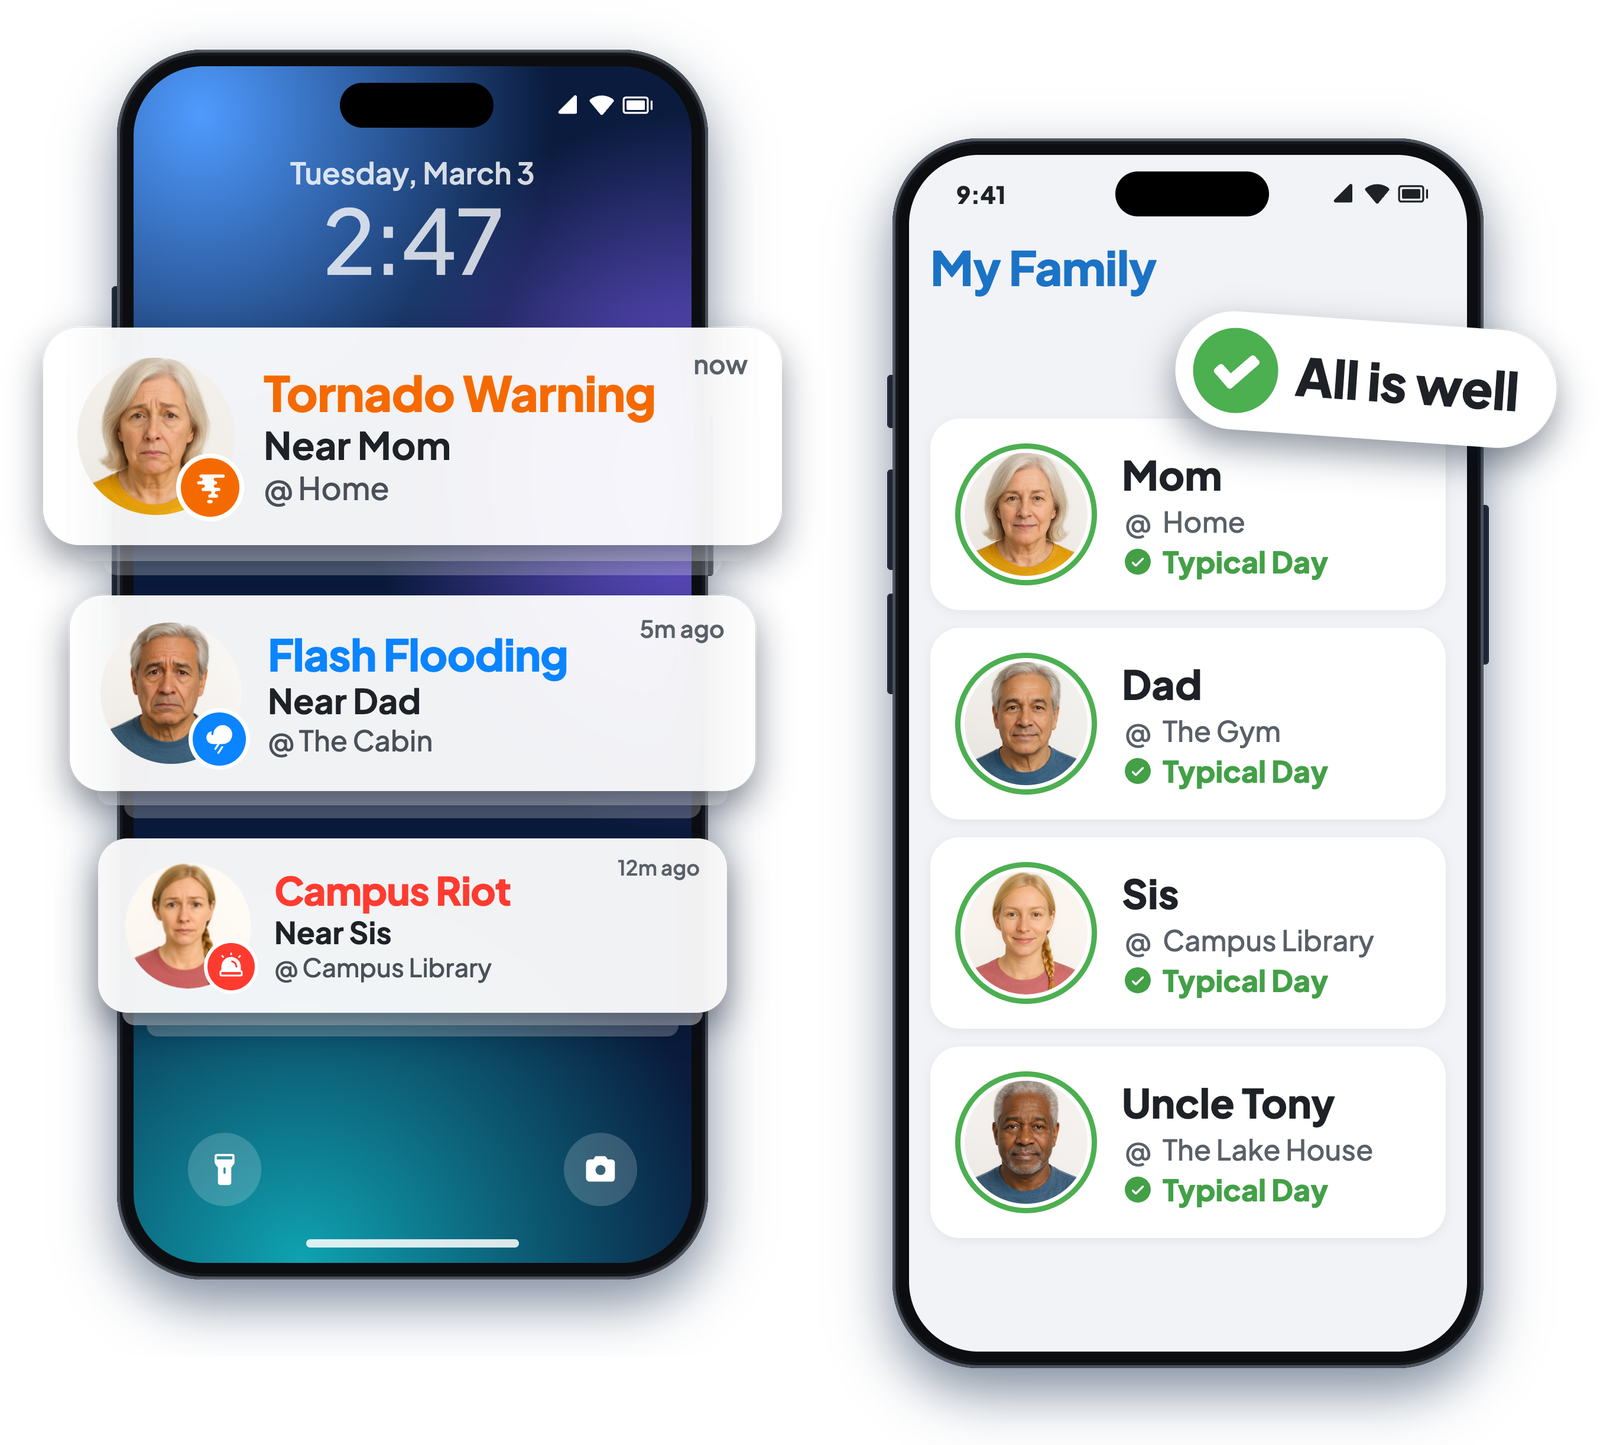
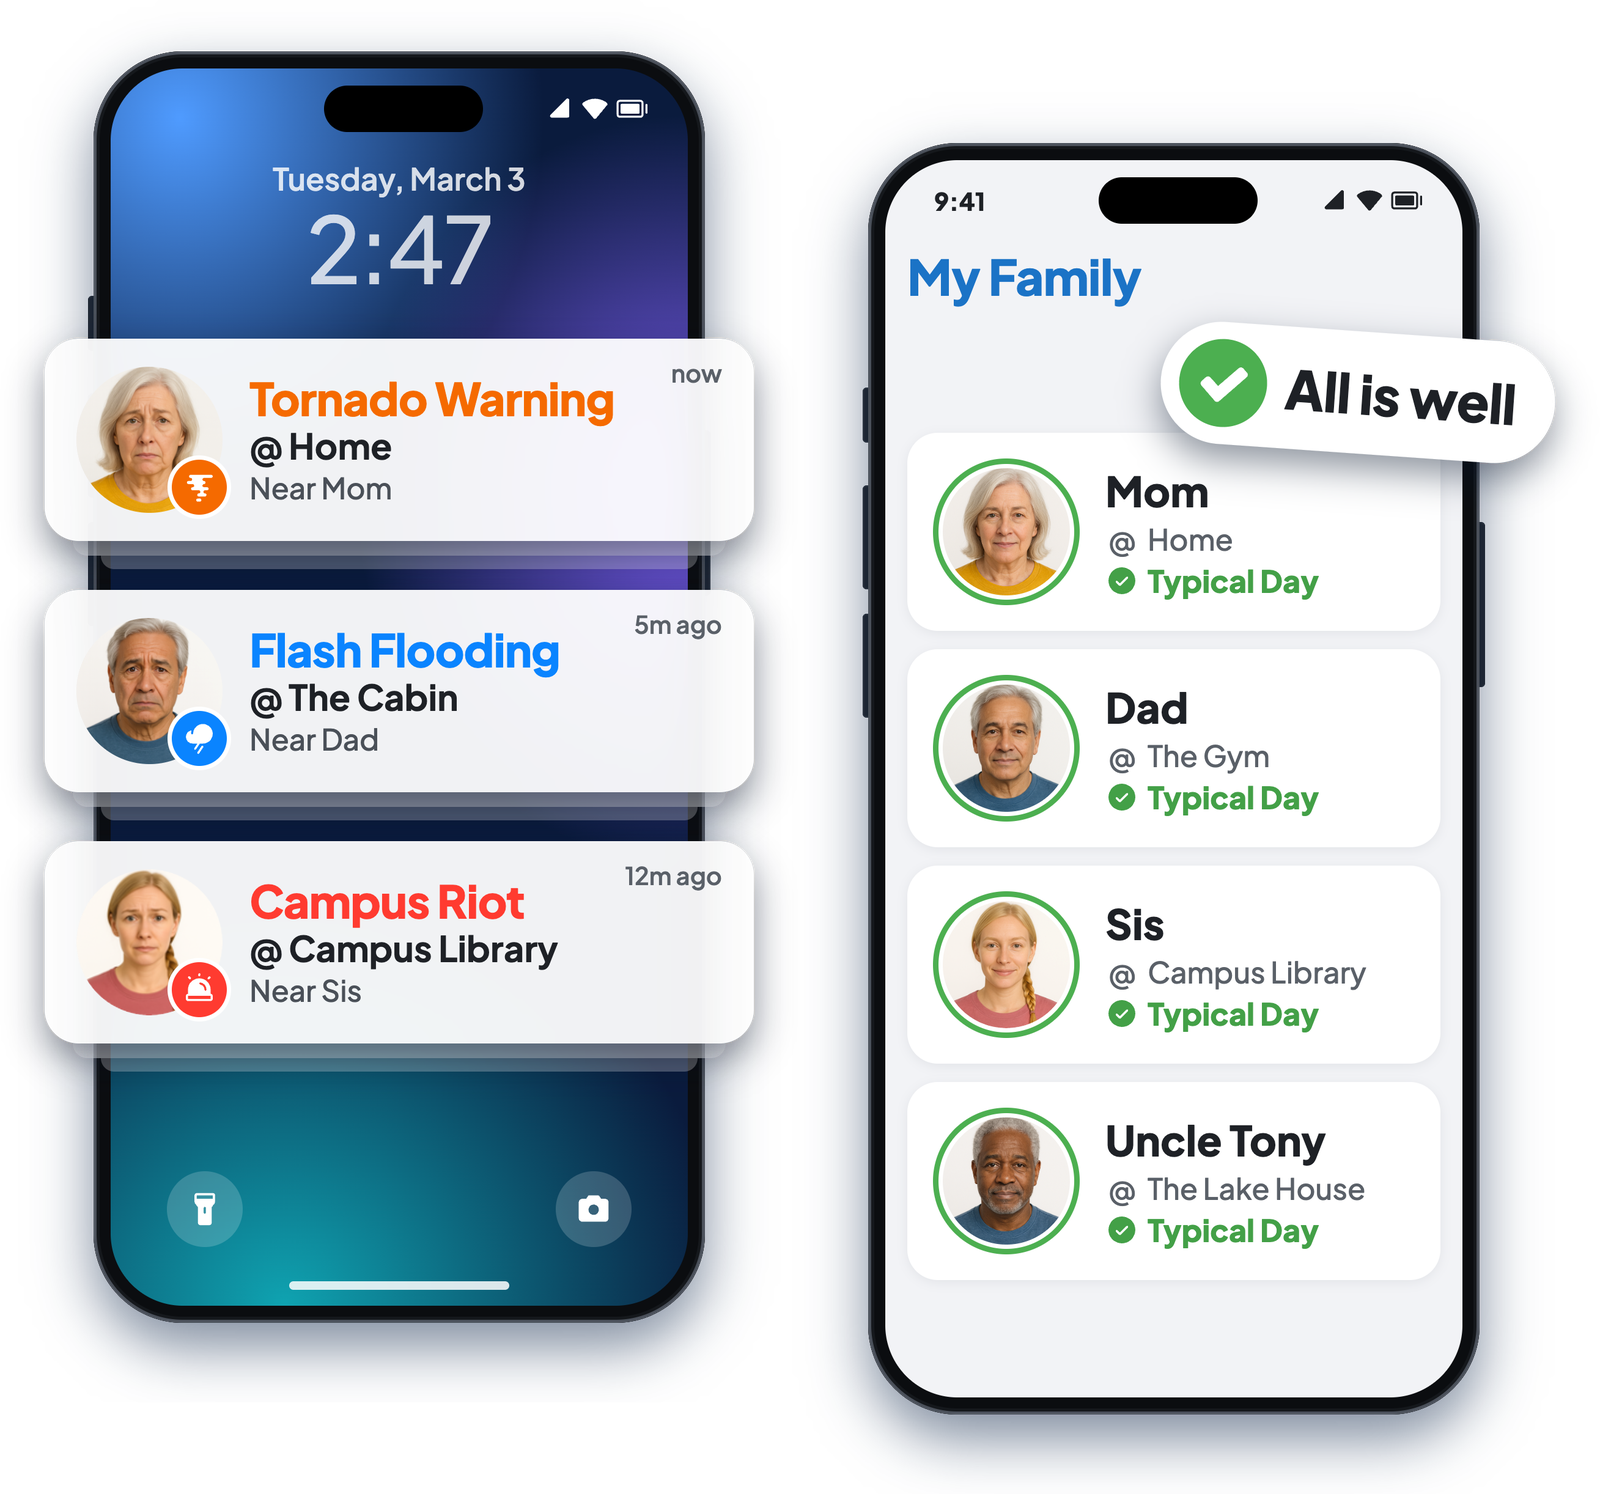
Two-phone lock screen image uses the aligned, place-first version

diff --git a/press/index.html b/press/index.html
@@ -83,11 +83,11 @@
           </div>
         </div>
         <div class="asset-card">
-          <div class="asset-preview"><img src="../images/home/duo-lock-well.webp" alt="Two phones: a lock screen with Looop alerts for a tornado warning near Mom and flash flooding near Dad, and the Looop home screen showing everyone having a Typical Day" width="1200" height="1083" loading="lazy"></div>
+          <div class="asset-preview"><img src="../images/home/duo-lock-well.webp?v=2" alt="Two phones: a lock screen with Looop alerts for a tornado warning at Home near Mom, flash flooding at The Cabin near Dad, and an alert at the Campus Library near Sis, and the Looop home screen showing everyone having a Typical Day" width="1200" height="1121" loading="lazy"></div>
           <div class="asset-body">
             <h3>Product: notifications</h3>
             <p>Looop alerts on the lock screen, like severe weather near a Loved One.&nbsp;PNG.</p>
-            <a href="../images/home/duo-lock-well.png" download="looop-notifications.png" class="asset-download"><svg class="icon" xmlns="http://www.w3.org/2000/svg" width="24" height="24" viewBox="0 0 24 24" fill="none" stroke="currentColor" stroke-width="2" stroke-linecap="round" stroke-linejoin="round" aria-hidden="true" focusable="false"><path d="M12 15V3"/><path d="M21 15v4a2 2 0 0 1-2 2H5a2 2 0 0 1-2-2v-4"/><path d="m7 10 5 5 5-5"/></svg>Download</a>
+            <a href="../images/home/duo-lock-well.png?v=2" download="looop-notifications.png" class="asset-download"><svg class="icon" xmlns="http://www.w3.org/2000/svg" width="24" height="24" viewBox="0 0 24 24" fill="none" stroke="currentColor" stroke-width="2" stroke-linecap="round" stroke-linejoin="round" aria-hidden="true" focusable="false"><path d="M12 15V3"/><path d="M21 15v4a2 2 0 0 1-2 2H5a2 2 0 0 1-2-2v-4"/><path d="m7 10 5 5 5-5"/></svg>Download</a>
           </div>
         </div>
         <div class="asset-card">

diff --git a/features.html b/features.html
@@ -36,7 +36,7 @@
     <p class="lead">Looop is a safety notifications app for families who care from a distance. It stays quiet when all is well and sends a gentle heads-up when something seems off, all in one app instead of&nbsp;five.</p>
     <a href="https://apps.apple.com/us/app/looop-keep-loved-ones-safe/id6760598111" class="app-store-badge"><img src="images/appstore-badge.png" alt="Download Looop on the App Store"></a>
     <div class="page-hero-image product-hero">
-      <img src="images/home/duo-lock-well.webp" width="1200" height="1083" alt="Two phones: a lock screen with Looop alerts for a tornado warning near Mom and flash flooding near Dad, and the Looop home screen showing everyone having a Typical Day">
+      <img src="images/home/duo-lock-well.webp?v=2" width="1200" height="1121" alt="Two phones: a lock screen with Looop alerts for a tornado warning at Home near Mom, flash flooding at The Cabin near Dad, and an alert at the Campus Library near Sis, and the Looop home screen showing everyone having a Typical Day">
     </div>
   </section>
 

diff --git a/CHANGELOG.md b/CHANGELOG.md
@@ -2,6 +2,11 @@
 
 Changes to thelooopapp.com, newest first. This file is not published (see `_config.yml`).
 
+## 2026-10-19 14:18 CT
+
+### Design
+- **Two-phone "lock screen + All is well" image uses the remade lock screen** (`images/home/duo-lock-well.webp` and the `.png` press download): rebuilt with the same composite as before (lock screen left, All is well phone 150px lower on the right), now with the aligned, place-first notifications. It's 1200x1121 (was 1083 tall), so `features.html` (How it works hero) and `press/index.html` (newsroom asset card) have the new height, `?v=2` cache versions, and alt text that names the places. With `phone1.webp` (homepage hero and alerts section, college families page), every place the lock screen appears is now the same image.
+
 ## 2026-10-19 14:17 CT
 
 ### Design
